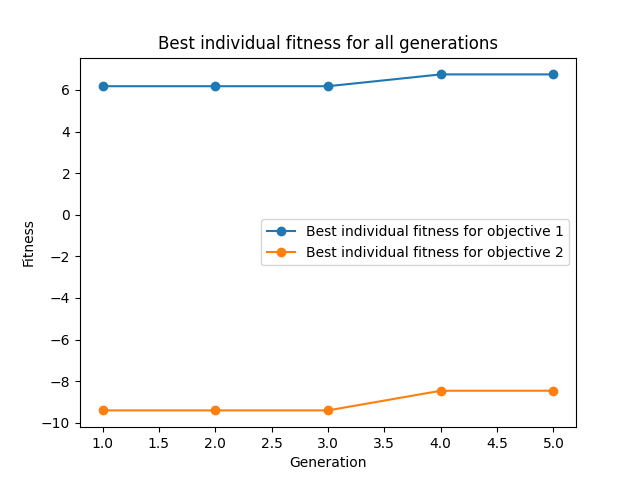
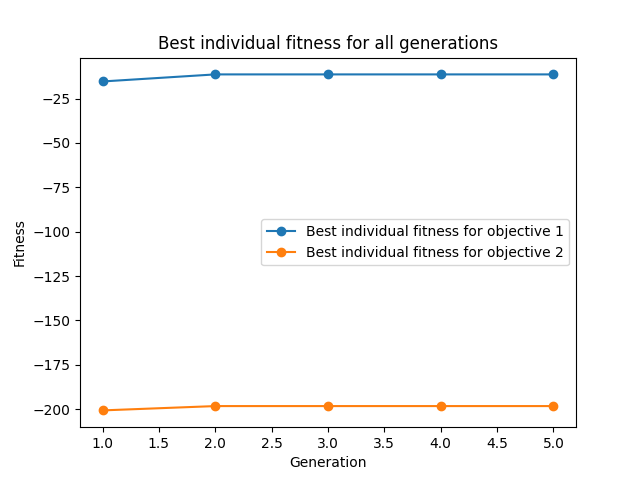
Added termination condition but not working

diff --git a/rocky_experiment.py b/rocky_experiment.py
@@ -246,25 +246,25 @@ def visualise_individual(genotype):
 def main():
     print("Starting the experiment at", datetime.now().strftime("%Y-%m-%d %H:%M:%S"),"\n")
 
-    # # Understanding the world
-    # genotype = np.random.uniform(-1, 1, 953)  # 8 body parameters, 945 NN weights of the controller
-    # visualise_individual(genotype)
+    # Understanding the world
+    genotype = np.random.uniform(-1, 1, 953)  # 8 body parameters, 945 NN weights of the controller
+    visualise_individual(genotype)
 
-    # # Optimise multi-objective
-    # world = AntWorld()
-    # n_parameters = world.n_params
+    # Optimise multi-objective
+    world = AntWorld()
+    n_parameters = world.n_params
 
-    # population_size = 10
-    # NSGA_opts["min"] = -1
-    # NSGA_opts["max"] = 1
-    # NSGA_opts["num_parents"] = population_size
-    NSGA_opts["num_generations"] = 5
-    # NSGA_opts["mutation_prob"] = 0.3
-    # NSGA_opts["crossover_prob"] = 0.5
+    population_size = 5 # GOOD VALUE: 30
+    NSGA_opts["min"] = -1
+    NSGA_opts["max"] = 1
+    NSGA_opts["num_parents"] = population_size
+    NSGA_opts["num_generations"] = 5  # GOOD VALUE: 100 
+    NSGA_opts["mutation_prob"] = 0.3    # NOT TOUCH
+    NSGA_opts["crossover_prob"] = 0.5   # NOT TOUCH
     results_dir = os.path.join(ROOT_DIR, 'results', ENV_NAME, 'multi')
-    # ea_multi_obj = NSGAII(population_size, n_parameters, NSGA_opts, results_dir)
+    ea_multi_obj = NSGAII(population_size, n_parameters, NSGA_opts, results_dir)
 
-    # run_EA_multi(ea_multi_obj, world)
+    run_EA_multi(ea_multi_obj, world)
 
     # Results
     best_individual = np.load(os.path.join(results_dir, f"{NSGA_opts['num_generations']-1}", "x_best.npy")) # best individual genotype
@@ -306,23 +306,23 @@ def main():
     #for i in range(NSGA_opts['num_generations']-1):
         
 
-    #best_individual = np.load(os.path.join(results_dir, f"{NSGA_opts['num_generations']-1}", "x_best.npy"))
+    best_individual = np.load(os.path.join(results_dir, f"{NSGA_opts['num_generations']-1}", "x_best.npy"))
     
     # Defining the best individual in the world for visualisation
-    # points, connectivity_mat = world.geno2pheno(best_individual)
-    # robot = AntRobot(points, connectivity_mat, world.joint_limits, world.joint_axis, verbose=False)
-    # robot.xml = robot.define_robot()
-    # robot.write_xml()
+    points, connectivity_mat = world.geno2pheno(best_individual)
+    robot = AntRobot(points, connectivity_mat, world.joint_limits, world.joint_axis, verbose=False)
+    robot.xml = robot.define_robot()
+    robot.write_xml()
 
-    # world_xml = xml.parse(os.path.join(ROOT_DIR, 'src', 'world', 'robot', 'assets', "ant_world.xml"))
-    # robot_env = world_xml.getroot()
+    world_xml = xml.parse(os.path.join(ROOT_DIR, 'src', 'world', 'robot', 'assets', "ant_world.xml"))
+    robot_env = world_xml.getroot()
 
-    # robot_env.append(xml.Element("include", attrib={"file": "AntRobot.xml"}))
-    # world_xml = xml.tostring(robot_env, encoding='unicode')
-    # with open(world.world_file, "w") as f:
-    #     f.write(world_xml)
+    robot_env.append(xml.Element("include", attrib={"file": "AntRobot.xml"}))
+    world_xml = xml.tostring(robot_env, encoding='unicode')
+    with open(world.world_file, "w") as f:
+        f.write(world_xml)
 
-    # generate_best_individual_video(world)
+    generate_best_individual_video(world)
 
 
 if __name__ == '__main__':

diff --git a/src/world/envs/AntCustomGym.py b/src/world/envs/AntCustomGym.py
@@ -2,6 +2,7 @@ from os import path
 from typing import Dict, Union
 
 import numpy as np
+import math
 from gymnasium import utils
 from gymnasium.envs.mujoco import MujocoEnv
 from gymnasium.spaces import Box
@@ -154,15 +155,50 @@ class AntCustomEnv(MujocoEnv, utils.EzPickle):
             "x_velocity": x_velocity,
             "y_velocity": y_velocity,
         }
+
+        # TERMINATION CONDITIONS
         terminated = False
-        # Check for NaN, Inf, or huge values
+
+        # Limit the acceleration to a reasonable range
         qacc = self.data.qacc
         if np.any(np.isnan(qacc)) or np.any(np.isinf(qacc)) or np.any(np.abs(qacc) > 1e6):
             DOF = np.argwhere((np.isnan(qacc)) + (np.isinf(qacc)) + (np.abs(qacc) > 1e6)).squeeze()[0]
             print(ValueError(f'MuJoCo Warning: Nan, Inf or huge value in QACC at DOF {DOF}'))
             terminated = True
-        if self.data.qpos[2] < 0.2 or self.data.qpos[2] > 1.0:
+
+        # Limit if it falls down the hill (z position) 
+        if self.data.body(self._main_body).xpos[2] < -0.5:       
             terminated = True
+
+        # Limit if it falls on its back
+        def is_180_deg_rotation_xy(xquat):
+            w, x, y, z = xquat
+            tol_rad = math.radians(40)
+
+            # compute rotation angle
+            w_clamped = max(-1.0, min(1.0, w))
+            angle = 2 * math.acos(w_clamped)
+            if abs(angle - math.pi) > tol_rad:
+                return False
+
+            # compute rotation axis
+            sin_half = math.sin(angle / 2)
+            if abs(sin_half) < 1e-6:
+                return False
+            ax, ay, az = x / sin_half, y / sin_half, z / sin_half
+
+            # check X-axis (±1, 0, 0)
+            if abs(abs(ax) - 1.0) < 1e-2 and abs(ay) < 1e-2 and abs(az) < 1e-2:
+                return True
+            # check Y-axis (0, ±1, 0)
+            if abs(abs(ay) - 1.0) < 1e-2 and abs(ax) < 1e-2 and abs(az) < 1e-2:
+                return True
+
+            return False
+        if is_180_deg_rotation_xy(self.data.body(self._main_body).xquat):       
+            terminated = True
+
+        # Limit if there is a huge value in the observation
         if np.isinf(observation).any():
             terminated = True
 
